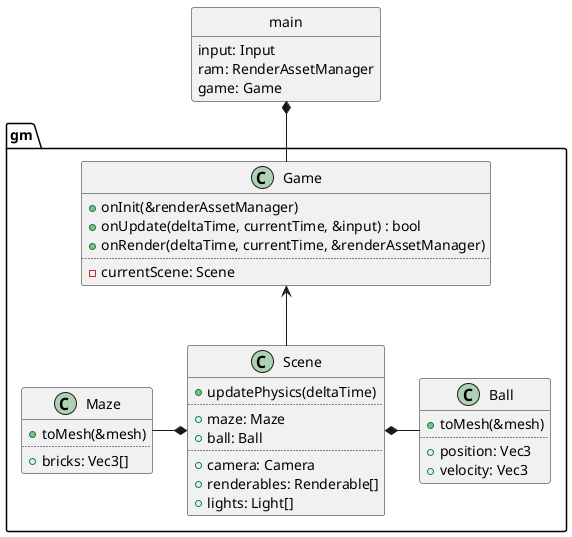
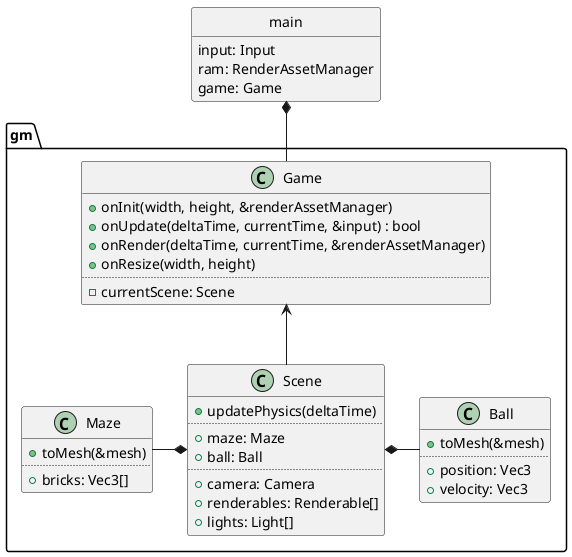
Added window frame resizing

diff --git a/src/gm/game.cpp b/src/gm/game.cpp
@@ -3,14 +3,21 @@
 
 using namespace gm;
 
-void Game::onInit(ren::RenderAssetManager& ram) {
+void Game::onInit(int width, int height, ren::RenderAssetManager& ram) {
+	ren::Renderer::resizeFrame(width, height);
+
 	currentScene.renderables.push_back(ren::Renderable());
 	currentScene.renderables[0].create(ram.getMesh("triangle"), ram.getMaterial("copper"));
 
-	currentScene.camera.project3d(72 * lin::degToRad, 1.33f, 0.001f, 999.9f);
-	currentScene.camera.setPosition({0, 0, -10});
+	currentScene.camera.project3d(72 * lin::degToRad, (float)width / (float)height, 0.001f, 999.9f);
+	currentScene.camera.setPosition({0, 0, 2});
 	currentScene.camera.setTarget({0, 0, 0});
 	currentScene.camera.setUp({0, 1, 0});
+}
+
+void Game::onResize(int width, int height) {
+	ren::Renderer::resizeFrame(width, height);
+	currentScene.camera.project3d(72 * lin::degToRad, (float)width / (float)height, 0.001f, 999.9f);
 }
 
 bool Game::onUpdate(float deltaTime, float currentTime, const in::Input& input) {

diff --git a/src/main.cpp b/src/main.cpp
@@ -67,7 +67,7 @@ int main() {
 	triangle.addVertex({{1, 1, 0}, {1, 1, 1, 1}, {1, 1}});
 	// TEMPORARY
 
-	game.onInit(ram);
+	game.onInit(width, height, ram);
 
 	float tickTime     = 1.0f / fps;
 	float currentTime  = 0.0f;
@@ -75,6 +75,9 @@ int main() {
 	float deltaTime    = 0.0f;
 	float lagTime      = 0.0f;
 	bool  isRunning    = true;
+
+	int frameWidth = width;
+	int frameHeight = height;
 
 	// Main loop
 	while(isRunning && !glfwWindowShouldClose(window)) {
@@ -115,6 +118,15 @@ int main() {
 		double mouseX, mouseY;
 		glfwGetCursorPos(window, &mouseX, &mouseY);
 		input.setMousePos(mouseX, mouseY);
+
+		// Frame size
+		int newFrameWidth, newFrameHeight;
+		glfwGetFramebufferSize(window, &newFrameWidth, &newFrameHeight);
+		if (frameWidth != newFrameWidth || frameHeight != newFrameHeight) {
+			frameWidth = newFrameWidth;
+			frameHeight = newFrameHeight;
+			game.onResize(frameWidth, frameHeight);
+		}
 
 		// Update and render the game
 		while (lagTime > tickTime) {

diff --git a/src/gm/game.hpp b/src/gm/game.hpp
@@ -8,9 +8,10 @@ namespace gm {
 	class Game {
 
 	public:
-		void onInit(ren::RenderAssetManager& ram);
+		void onInit(int width, int height, ren::RenderAssetManager& ram);
 		bool onUpdate(float deltaTime, float currentTime, const in::Input& input);
 		void onRender(float deltaTime, float currentTime, ren::RenderAssetManager& ram);
+		void onResize(int width, int height);
 
 	private:
 		Scene currentScene;

diff --git a/src/ren/renderer.hpp b/src/ren/renderer.hpp
@@ -11,5 +11,7 @@ namespace ren {
 		static void clear(float red, float green, float blue);
 		static void render(Renderable& renderable);
 		static void render(Camera& camera, const std::vector<Renderable>& renderables);
+
+		static void resizeFrame(int width, int height);
 	};
 }

diff --git a/src/ren/renderer.cpp b/src/ren/renderer.cpp
@@ -28,3 +28,7 @@ void Renderer::render(Camera& camera, const std::vector<Renderable>& renderables
 		r.mesh->draw();
 	}
 }
+
+void Renderer::resizeFrame(int width, int height) {
+	glViewport(0, 0, width, height);
+}
